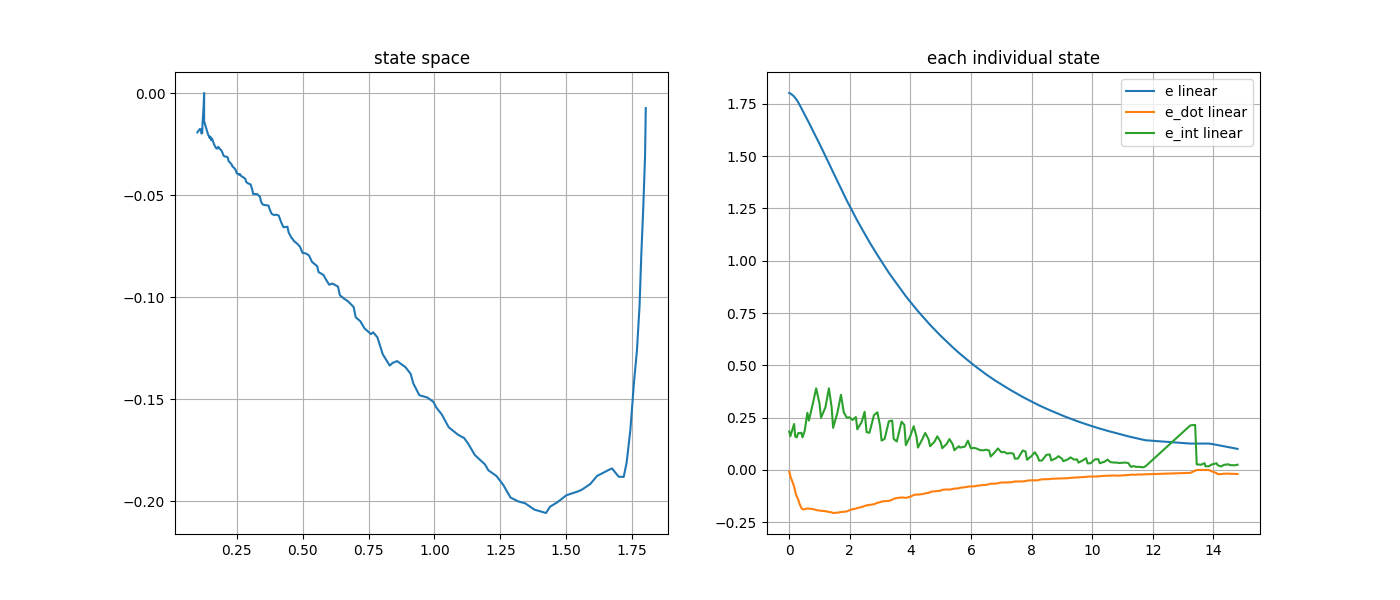
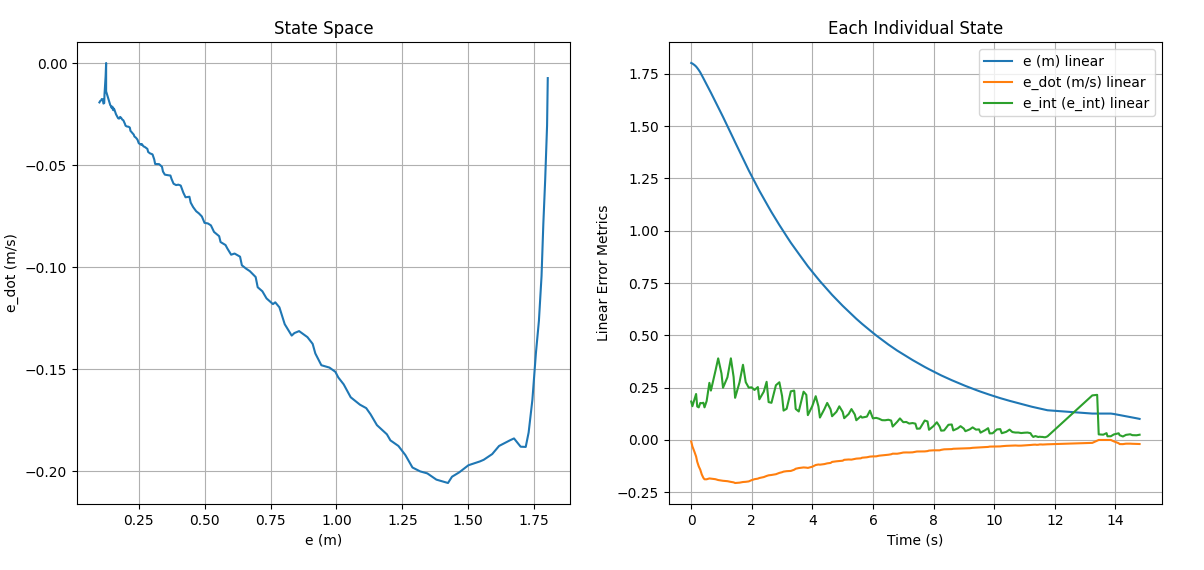
add axes title for lab 2 plots

diff --git a/labTwo/plot_errors.py b/labTwo/plot_errors.py
@@ -1,66 +1,109 @@
 import matplotlib.pyplot as plt
 from utilities import FileReader
 import os
+import argparse
+from PIL import Image  # Import Pillow for image cropping
 
+
+# Define units for known variables
+UNITS = {
+    "e": "m",
+    "e_dot": "m/s",
+    "x": "m",
+    "y": "m"
+}
 
 
 def plot_errors(filename):
     
-    headers, values=FileReader(filename).read_file()
+    headers, values = FileReader(filename).read_file()
     
-    time_list=[]
-    
-    first_stamp=values[0][-1]
+    time_list = []
+    first_stamp = values[0][-1]
     
     for val in values:
         time_list.append(val[-1] - first_stamp)
 
-    
-    
-    fig, axes = plt.subplots(1,2, figsize=(14,6))
+    if "angular" in filename:
+        xlabel = "Time (s)"
+        ylabel = "Angular Error Metrics"
+        legend_suffix = " angular"
+    elif "linear" in filename:
+        xlabel = "Time (s)"
+        ylabel = "Linear Error Metrics"
+        legend_suffix = " linear"
+    elif "robot_pose" in filename:
+        xlabel = "Time (s)"
+        ylabel = "Robot Pose"
+        legend_suffix = " pose"
+    else:
+        print(f"Skipping {filename}: Unrecognized filename pattern.")
+        return
 
+    fig, axes = plt.subplots(1, 2, figsize=(14, 6))
+
+    # Get units for first two headers (for state space plot)
+    x_label = f"{headers[0]} ({UNITS.get(headers[0], headers[0])})"
+    y_label = f"{headers[1]} ({UNITS.get(headers[1], headers[1])})"
 
     axes[0].plot([lin[0] for lin in values], [lin[1] for lin in values])
-    axes[0].set_title("state space")
+    axes[0].set_title("State Space")
+    axes[0].set_xlabel(x_label)
+    axes[0].set_ylabel(y_label)
     axes[0].grid()
 
-    
-    axes[1].set_title("each individual state")
+    axes[1].set_title("Each Individual State")
+    axes[1].set_xlabel(xlabel)
+    axes[1].set_ylabel(ylabel)
+
     for i in range(0, len(headers) - 1):
-        axes[1].plot(time_list, [lin[i] for lin in values], label= headers[i]+ " linear")
+        header_name = headers[i]
+        unit_label = UNITS.get(header_name, header_name)
+        axes[1].plot(time_list, [lin[i] for lin in values], label=f"{header_name} ({unit_label}){legend_suffix}")
 
     axes[1].legend()
     axes[1].grid()
 
-    csv_file = args.files[0] if isinstance(args.files, list) else args.files
-
-    # save plots as png file
-    csv_dir = os.path.dirname(csv_file)
-    csv_basename = os.path.splitext(os.path.basename(csv_file))[0]
+    csv_dir = os.path.dirname(filename)
+    csv_basename = os.path.splitext(os.path.basename(filename))[0]
     output_path = os.path.join(csv_dir, f"{csv_basename}.png")
 
     plt.savefig(output_path)
-    
-    
+    plt.close()
+
+    print(f"Plot saved to {output_path}")
+
+    # Crop the image after saving
+    crop_image(output_path)
 
 
+def crop_image(image_path):
+    """Crop 7% from left, 7% from right, and 5% from top."""
+    img = Image.open(image_path)
+    width, height = img.size
+
+    # Compute crop boundaries
+    left = int(0.07 * width)  # 7% from left
+    right = width - int(0.07 * width)  # 7% from right
+    top = int(0.05 * height)  # 5% from top
+    bottom = height  # Keep full height (no crop from bottom)
+
+    # Crop and overwrite the original image
+    img_cropped = img.crop((left, top, right, bottom))
+    img_cropped.save(image_path)
+
+    print(f"Cropped image saved to {image_path}")
 
 
-
-import argparse
-
-if __name__=="__main__":
+if __name__ == "__main__":
 
     parser = argparse.ArgumentParser(description='Process some files.')
     parser.add_argument('--files', nargs='+', required=True, help='List of files to process')
-    
-    args = parser.parse_args()
-    
-    print("plotting the files", args.files)
 
-    filenames=args.files
+    args = parser.parse_args()
+
+    print("Plotting the files", args.files)
+
+    filenames = args.files
     for filename in filenames:
         plot_errors(filename)
-
-
-

diff --git a/labTwo/data/plotting_commands.md b/labTwo/data/plotting_commands.md
@@ -1,0 +1,21 @@
+### copy these commands to make all plots
+
+python plot_errors.py --files data/p/p0_2/angular_P.csv
+python plot_errors.py --files data/p/p0_2/linear_P.csv
+python plot_errors.py --files data/p/p0_2/robot_pose.csv
+python plot_errors.py --files data/p/p0_6/angular_P.csv
+python plot_errors.py --files data/p/p0_6/linear_P.csv
+python plot_errors.py --files data/p/p0_6/robot_pose.csv
+python plot_errors.py --files data/p/p2/angular_P.csv
+python plot_errors.py --files data/p/p2/linear_P.csv
+python plot_errors.py --files data/p/p2/robot_pose.csv
+python plot_errors.py --files data/pid/v1/angular_PID.csv
+python plot_errors.py --files data/pid/v1/linear_PID.csv
+python plot_errors.py --files data/pid/v1/robot_pose.csv
+python plot_errors.py --files data/pid/v2/angular_PID.csv
+python plot_errors.py --files data/pid/v2/linear_PID.csv
+python plot_errors.py --files data/pid/v2/robot_pose.csv
+python plot_errors.py --files data/pid/v3/angular_PID.csv
+python plot_errors.py --files data/pid/v3/linear_PID.csv
+python plot_errors.py --files data/pid/v3/robot_pose.csv
+
